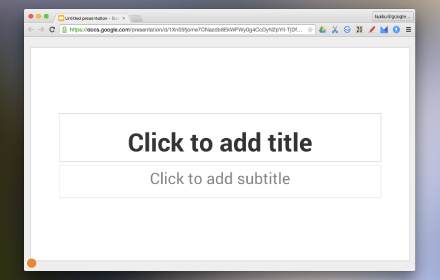
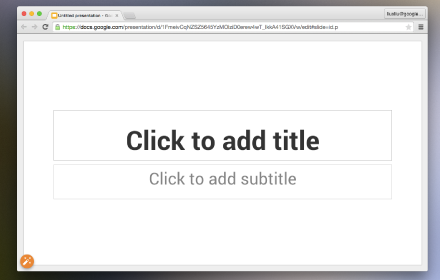
update

diff --git a/package/main.js b/package/main.js
@@ -1,6 +1,6 @@
 
 
-$( "body" ).append( "<button id='magic' class='hide' style='z-index: 1000;position: absolute;left: 8px;bottom: 8px;height: 36px; width: 36px; border:none; border-radius: 50px; background: #F57F17;cursor:pointer;outline:none;box-shadow: 0 2px 5px 0 rgba(0,0,0,.16), 0 2px 5px 0 rgba(0,0,0,.23);'><img src='chrome-extension://iholdcogllchfpmdnkiaaobcghmbgblf/icon.svg'></button>" );
+$( "body" ).append( "<button id='magic' class='hide' style='z-index: 1000;position: absolute;left: 8px;bottom: 8px;height: 36px; width: 36px; border:none; border-radius: 50px; background: #F57F17;cursor:pointer;outline:none;box-shadow: 0 2px 5px 0 rgba(0,0,0,.16), 0 2px 5px 0 rgba(0,0,0,.23);'><img src='chrome-extension://chmpcnohjikbnkhidnljgcagpkiplmpb/icon.svg'></button>" );
 
 $('.hide').click(function(){
 	$('#docs-chrome').toggle();
